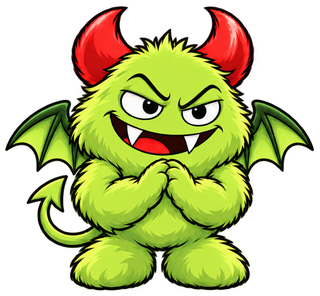
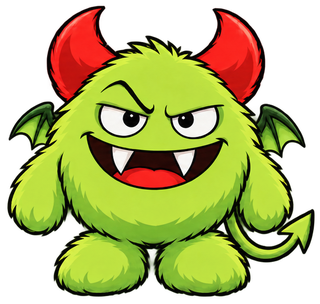
docs: refresh production README and use Little Orche

diff --git a/README.md b/README.md
@@ -1,23 +1,64 @@
 # Orchestrarium
 
-<img src="assets/branding/orche.png" alt="Orche, the winged green mascot" width="160" height="148">
+<img src="assets/branding/orche.png" alt="Little Orche, the small winged green mascot" width="160" height="152">
 
-Optional local distribution assembly is documented in [the distribution guide](scripts/distribution/README.md). It binds the supplied runtime to its exact notice inventory before producing a bundle, and packages this existing installer without changing its ownership or provider policies. Windows build and bounded Codex/Claude project receiving are recorded in [runtime evidence](scripts/distribution/runtime-evidence.md); local directory projections use native junctions without privilege elevation. Historical SDK recovery evidence is not acceptance of this layout.
+**A workflow pack for coordinated AI development.** The current project is
+Orchestrarium; its mascot is Little Orche. The planned Orche rebrand follows
+the SDK and Rust transitions and is not part of this release.
 
-A cross-provider agent orchestration monorepo that keeps the production Codex and Claude Code lines aligned on one shared governance and reference core.
+Orchestrarium helps a leading assistant divide work, assign suitable specialist roles,
+keep authors and reviewers separate, and carry verified results through to
+delivery. Shared rules provide a common workflow; each supported client keeps
+its own runtime conventions. Rules and role selection do not grant permission
+to launch models or spend quota.
 
-Codex native roles use the task and role selector, with Terra for suitable ordinary work and Sol for science. Named Luna mechanical roles have a separate supervised corridor; ordinary eligible producer roles can use `luna-high` or `luna-xhigh`. Explicit user controls, host restrictions, independent reviews and per-attempt Astra or Max consent remain binding. See [Codex platform rules](src.codex/AGENTS.codex.md) and [installation details](INSTALL.md) for role, migration and runtime contracts.
+## Start here
 
-- `src.codex/` — the production Codex provider-pack source
-- `src.claude/` — the production Claude Code provider-pack source
+- **Install or update:** [installation guide](INSTALL.md).
+- **Understand the workflow:** [documentation index](docs/README.md).
+- **Work on the project:** [maintainer starting point](docs/new-session-guide.md).
+- **See released changes:** [release notes](RELEASE_NOTES.md).
 
-The provider lines share one governance model and role vocabulary, while each keeps the runtime structure expected by its own provider. The root router installs Codex, Claude, or both. The removed Gemini and Qwen provider values are retained only as fail-closed migration identifiers; they are not install or execution routes.
+## Current release and SDK development
 
-Warning: Orchestrarium is optimized for maximum execution effectiveness and low orchestration drag rather than for minimum token spend. On large tasks, multi-opinion review lanes, or aggressive external fan-out, usage can rise quickly and consume a substantial token budget in a short time.
+| | Current `main` | SDK development in [PR #19](https://github.com/applicate2628/Orchestrarium/pull/19) |
+| --- | --- | --- |
+| Availability | The production source described by this README and its installation guide. | A separate, unmerged development branch; not the current globally installed release. |
+| Clients and layout | Codex and Claude Code packs share governance. Their source remains in `src.codex/` and `src.claude/`. | Work toward a common core with client adapters, including Antigravity integration. Its changed paths do not apply to `main`. |
+| Delegation | Existing role selection and execution routes, with their documented permissions and platform limits. | Optional SDK (Software Development Kit) execution and child-session coordination are being developed and checked. They are not enabled by this README. |
+| Evidence | Use the current installation guide and source contracts for the operation being performed. | Offline checks do not establish live provider or platform acceptance. Read the PR's current evidence and remaining limits before testing. |
 
-New maintenance sessions should start with [`docs/new-session-guide.md`](docs/new-session-guide.md). It records the source-first rule for this monorepo: tracked Orchestrarium source is canon, while `~/.codex/`, `~/.claude/`, project `.agents/`, and project `.claude/` are installed runtime outputs that should not be patched as the durable fix before the source owner is updated.
+The SDK branch is not a reason to reinstall or migrate a working setup early.
+This page does not announce SDK release readiness or enable quota-consuming runs.
 
-For a repository transfer, `$manual-repo-transfer` defaults to a verified Git clone plus only the required current local-state overlay; ignored `work-items/` is not in the clone. Direct transfers can preserve unfinished work without requiring cleanup or publication. When cleanup is explicitly requested, `$repo-cleanup` and the transfer owner apply their existing separate contracts. Offline or full recovery is an explicit alternative.
+### Roles, models and cost
+
+The leading assistant chooses each Codex task's model and reasoning effort through the existing
+role selector; a role name alone is not a fixed model assignment. Current user
+settings, supported model options and permissions still apply. Authors and
+reviewers remain separate. See [Codex platform rules](src.codex/AGENTS.codex.md)
+for the maintained routing contract rather than a second model ranking here.
+
+Parallel work and independent reviews can consume substantial tokens. Orchestrarium
+prioritizes effective execution, not the lowest possible spend. Selecting a
+route does not authorize a model launch, external review or paid operation.
+
+### Maintainer notes
+
+The repository source is authoritative; installed files are runtime outputs.
+Start maintenance with [the source-first guide](docs/new-session-guide.md).
+The root installer currently selects Codex, Claude, or both. Removed Gemini and
+Qwen values are migration identifiers, not supported installation or execution
+routes.
+
+For repository transfer, `$manual-repo-transfer` uses a verified Git clone plus
+only the required current local-state overlay; ignored `work-items/` is not
+included in a clone. Cleanup is a separate explicitly requested operation.
+
+Optional distribution assembly is documented in [the distribution guide](scripts/distribution/README.md).
+It binds the supplied runtime to its notice inventory; it does not change
+provider permissions. [Runtime evidence](scripts/distribution/runtime-evidence.md)
+records the bounded packaging checks, not general SDK acceptance.
 
 ## WARNING: Claude external authentication
 

diff --git a/assets/branding/README.md b/assets/branding/README.md
@@ -1,14 +1,17 @@
-# Orche identity
+# Little Orche identity
 
-Mascot name: **Orche**. The approved character has
-lime-green fur, red horns, two fangs, a scheming narrowed gaze, green bat-like
-wings and a body-colored devil tail with a triangular tip.
+The current project is **Orchestrarium**. Its current mascot is **Little Orche**:
+the smallest, round lime-green character, with arms down, red horns, two fangs,
+small green wings and a green devil tail with a triangular tip. The larger
+Orche and the project rebrand are reserved for after the SDK and Rust transitions.
 
-`orche.png` is a transparent 320 x 296 pixel logo, displayed at 160 x 148 pixels
-in the root README. It is a proportional crop and reduction of Orche from the
-approved four-character sheet of 2026-10-29, not a newly generated design.
+`orche.png` is a transparent 320 x 304 pixel logo, displayed at 160 x 152 pixels
+in the root README. It is a proportional crop and reduction of the rightmost
+Little Orche from the approved three-character sheet of 2026-10-29, not a newly
+generated design. Only the neighboring character was excluded at the transparent
+seam; Little Orche's wings, horns, hands, feet and tail remain intact.
 The full-resolution source remains in the owner's artwork library; do not add
-large duplicate artwork to the repository or restore the older wingless avatar.
+large duplicate artwork to the repository.
 
 This is a product asset, not an authority marker. Keep existing receipt/schema,
 hook ownership and migration identifiers unchanged unless separately migrated.

diff --git a/RELEASE_NOTES.md b/RELEASE_NOTES.md
@@ -4,6 +4,8 @@ This file is the canonical release log for tracked Orchestrarium monorepo change
 
 ## 2026-11-18
 
+- The repository front page now introduces Orchestrarium in plain language and separates the current production packs from the unmerged SDK work in PR #19. The current mascot is the approved Little Orche, displayed as a compact logo; the future Orche rebrand is not applied. Existing installation identifiers and runtime behavior are unchanged; the page no longer repeats an outdated model-ranking summary.
+
 - Lead communication now explains the practical issue, options and consequences before asking users for a decision. Routine authorized choices stay with the Lead; technical accuracy and mandatory approvals remain unchanged. The existing shared rule is clarified rather than adding another questionnaire or provider-specific policy.
 
 - Normal and Ultra Codex Leads now share an explicit native-dispatch procedure: select each child by task through the existing resolver, submit the exact model/effort pair, and distinguish requested controls from host evidence. This clarifies that ranking is caller-owned rather than an automatic host hook; missing runtime metadata alone does not freeze substantive review or independent work. No model defaults, permission rules or runtime hooks are changed.
